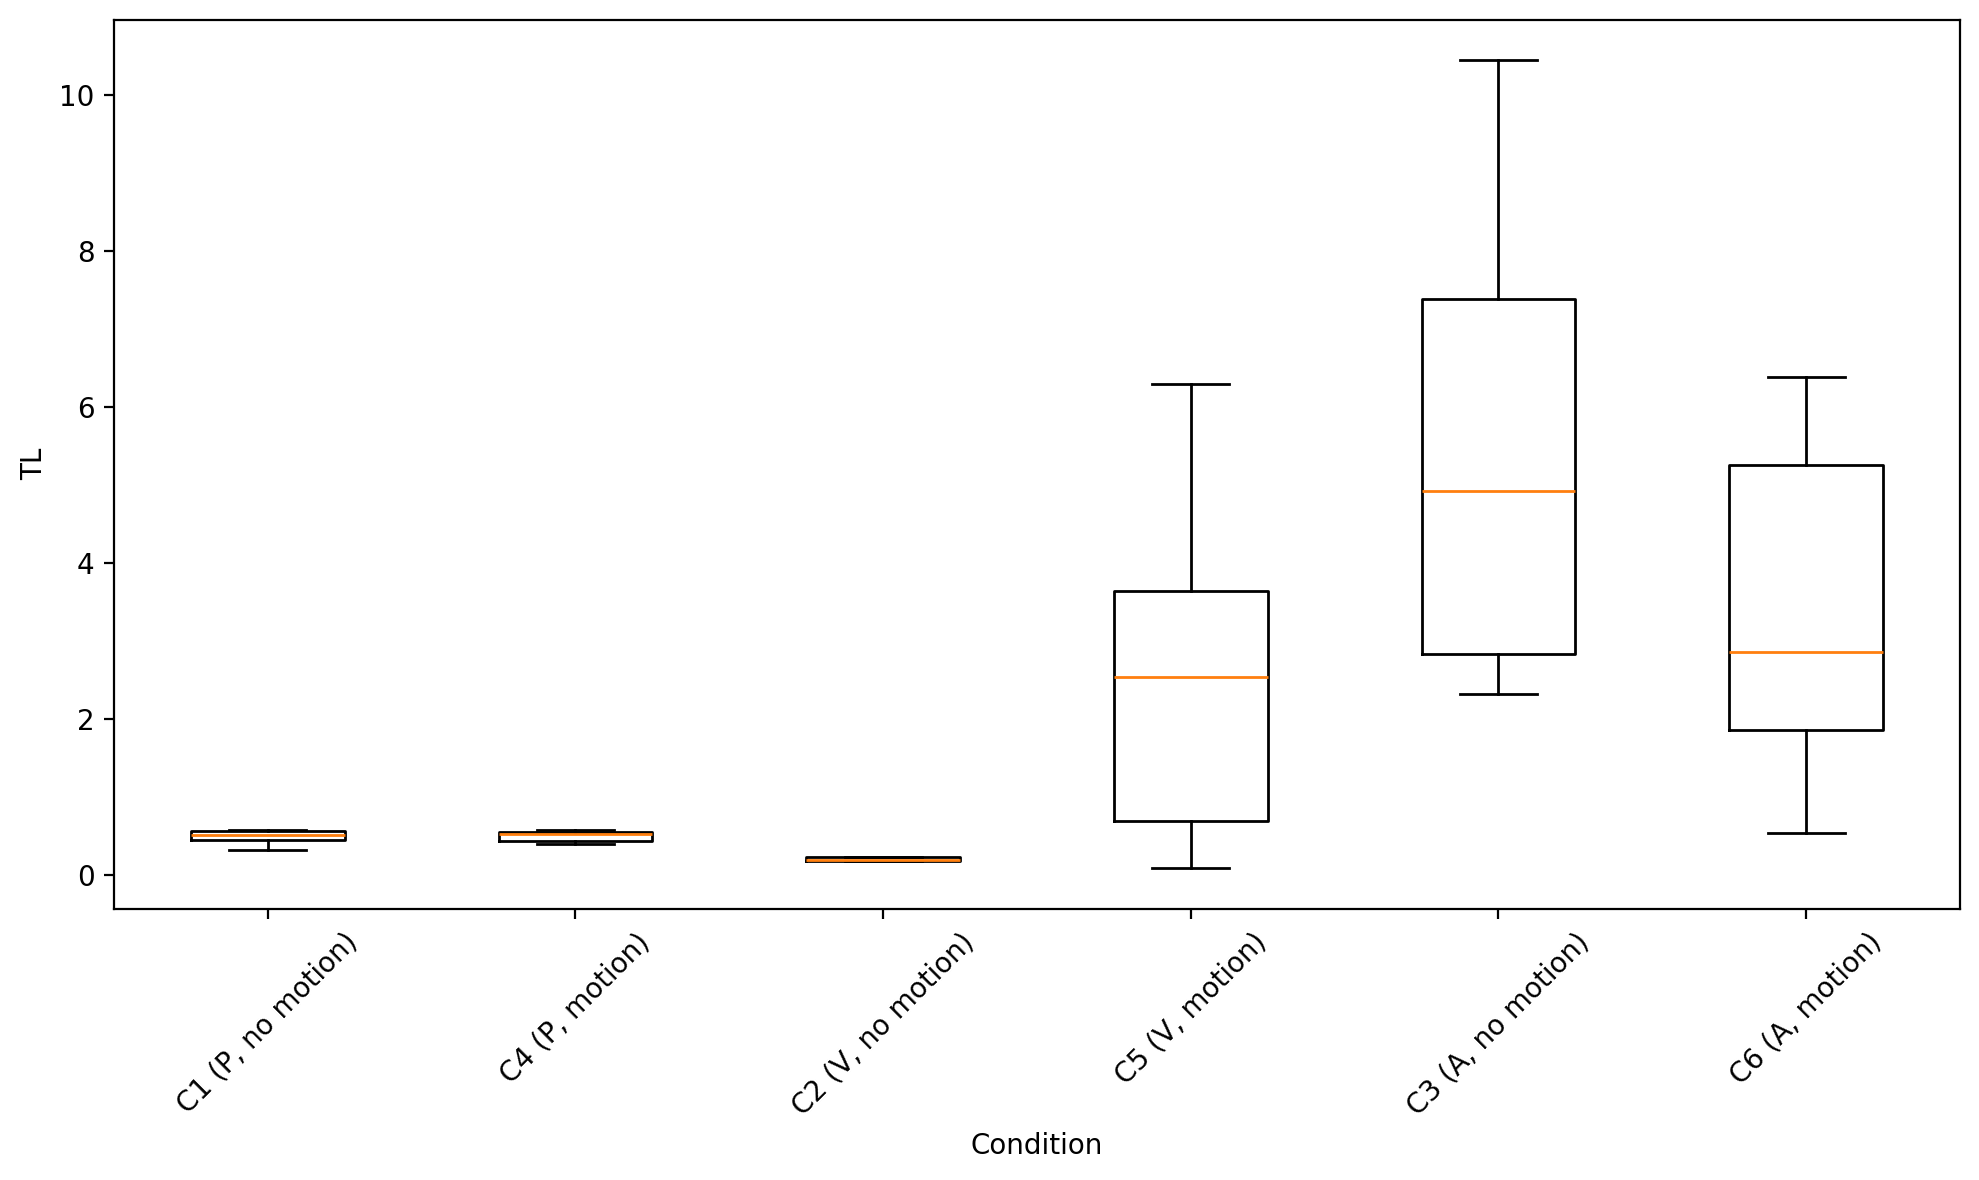
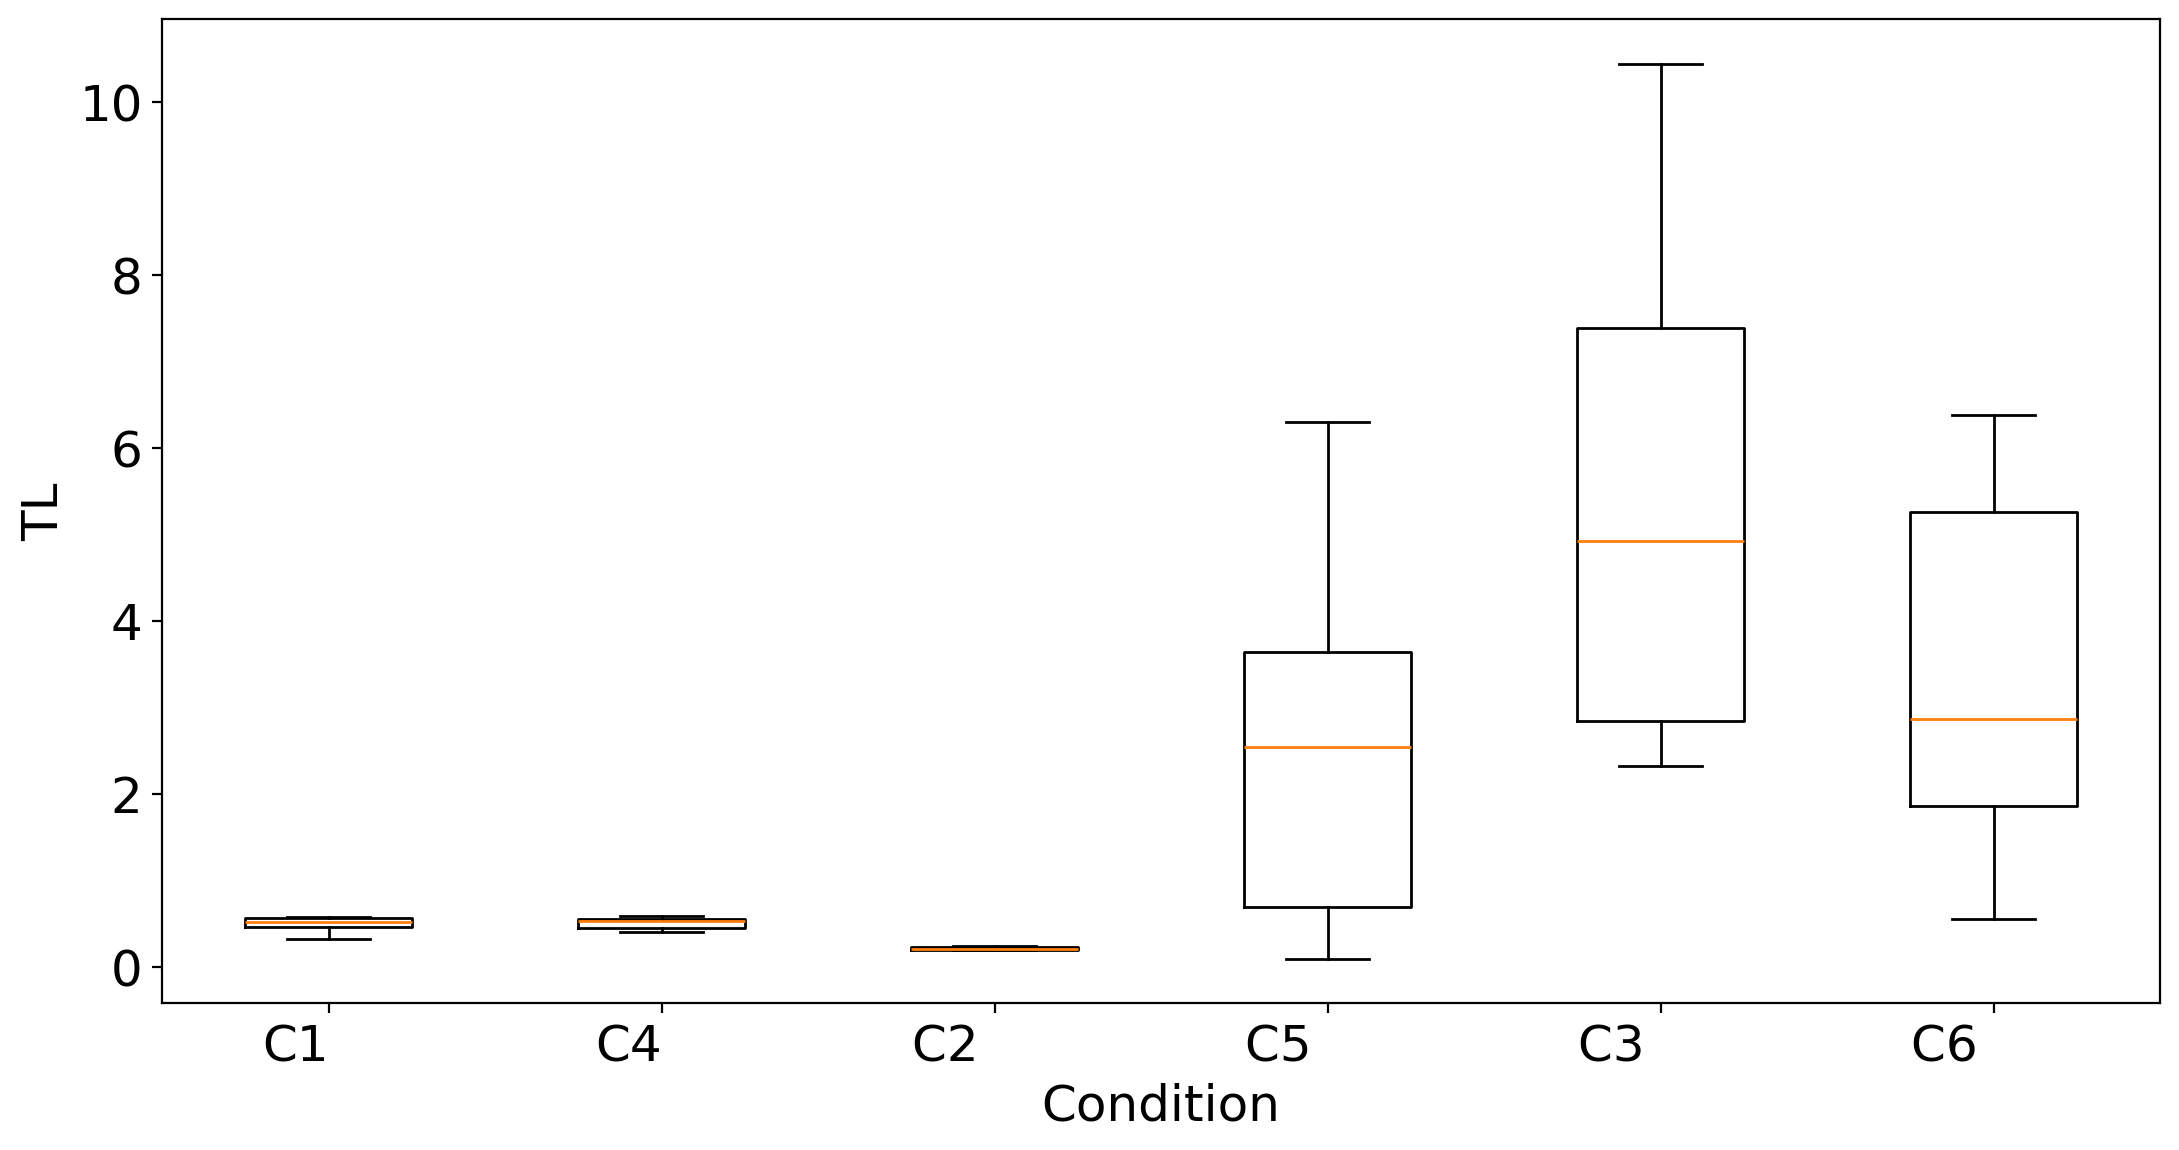
Even newer boxplots

diff --git a/boxplot_main.py b/boxplot_main.py
@@ -13,12 +13,12 @@ parameters_c6 = global_parameters[5]
 
 # Condition names (full set)
 condition_names_all = [
-    "C1 (P, no motion)",
-    "C4 (P, motion)",
-    "C2 (V, no motion)",
-    "C5 (V, motion)",
-    "C3 (A, no motion)",
-    "C6 (A, motion)",
+    "C1",
+    "C4",
+    "C2 ",
+    "C5 ",
+    "C3 ",
+    "C6 ",
 ]
 
 # Combine parameters into a list of lists for boxplot (full set)
@@ -33,9 +33,9 @@ all_conditions_all = [
 
 # Subset for Km and tau_m only (C4, C5, C6)
 condition_names_motion_only = [
-    "C4 (P, motion)",
-    "C5 (V, motion)",
-    "C6 (A, motion)",
+    "C4",
+    "C5",
+    "C6",
 ]
 all_conditions_motion_only = [
     parameters_c4,  # C4
@@ -73,7 +73,7 @@ params_to_plot = [
 # Map parameter name -> original column index
 param_to_col = {p: i for i, p in enumerate(all_params_original)}
 
-# Create boxplots for each parameter across conditions
+
 for param in params_to_plot:
     col_idx = param_to_col[param]
 
@@ -85,15 +85,48 @@ for param in params_to_plot:
         conditions = all_conditions_all
         labels = condition_names_all
 
-    plt.figure(figsize=(10, 6))
+    plt.figure(figsize=(11, 6.5))
     data_to_plot = [condition[:, col_idx] for condition in conditions]
-    plt.boxplot(data_to_plot, tick_labels=labels, showfliers=False)
-    #plt.title(f"Boxplot of {param} across conditions")
-    plt.xlabel("Condition")
-    plt.ylabel(param)
-    plt.xticks(rotation=45)
-    plt.tight_layout()
-    plt.savefig(f"BOXPLOTS/boxplot_{param}.png", dpi=200, bbox_inches="tight")
-    #plt.show()
 
-print('Boxplot generation successful')
+    plt.boxplot(data_to_plot, tick_labels=labels, showfliers=False)
+
+    plt.xlabel("Condition", fontsize=18)
+    plt.ylabel(param, fontsize=18)
+
+    plt.xticks(ha="right", fontsize=18)
+    plt.yticks(fontsize=18)
+
+    plt.tight_layout()
+    plt.subplots_adjust(bottom=0.22)
+
+    plt.savefig(f"BOXPLOTS/boxplot_{param}.png", dpi=200, bbox_inches="tight")
+    # plt.show()
+
+print("Boxplot generation successful")
+
+
+
+# # Create boxplots for each parameter across conditions
+# for param in params_to_plot:
+#     col_idx = param_to_col[param]
+
+#     # Only show C4/C5/C6 for Km and tau_m
+#     if param in ("Km", "tau_m"):
+#         conditions = all_conditions_motion_only
+#         labels = condition_names_motion_only
+#     else:
+#         conditions = all_conditions_all
+#         labels = condition_names_all
+
+#     plt.figure(figsize=(10, 6))
+#     data_to_plot = [condition[:, col_idx] for condition in conditions]
+#     plt.boxplot(data_to_plot, tick_labels=labels, showfliers=False)
+#     #plt.title(f"Boxplot of {param} across conditions")
+#     plt.xlabel("Condition")
+#     plt.ylabel(param)
+#     plt.xticks(rotation=45)
+#     plt.tight_layout()
+#     plt.savefig(f"BOXPLOTS/boxplot_{param}.png", dpi=200, bbox_inches="tight")
+#     #plt.show()
+
+# print('Boxplot generation successful')
